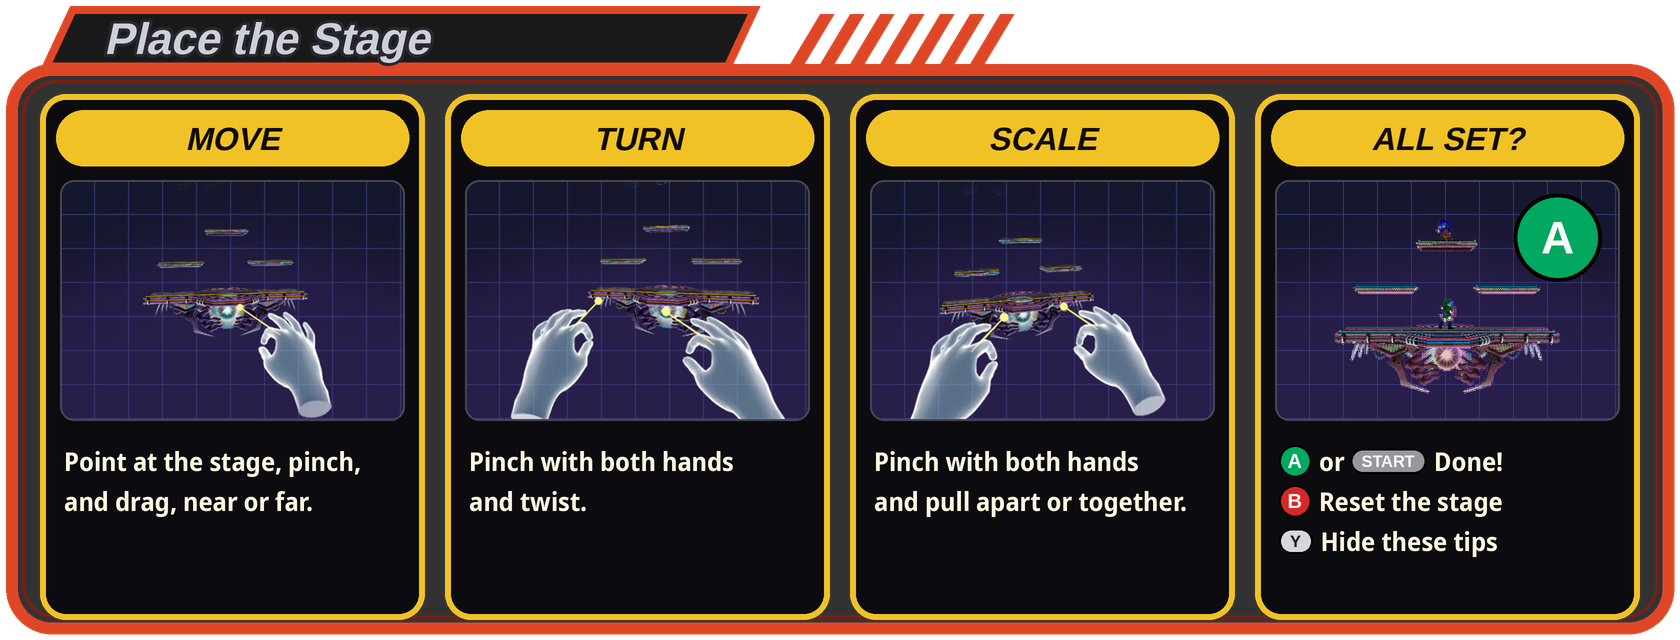
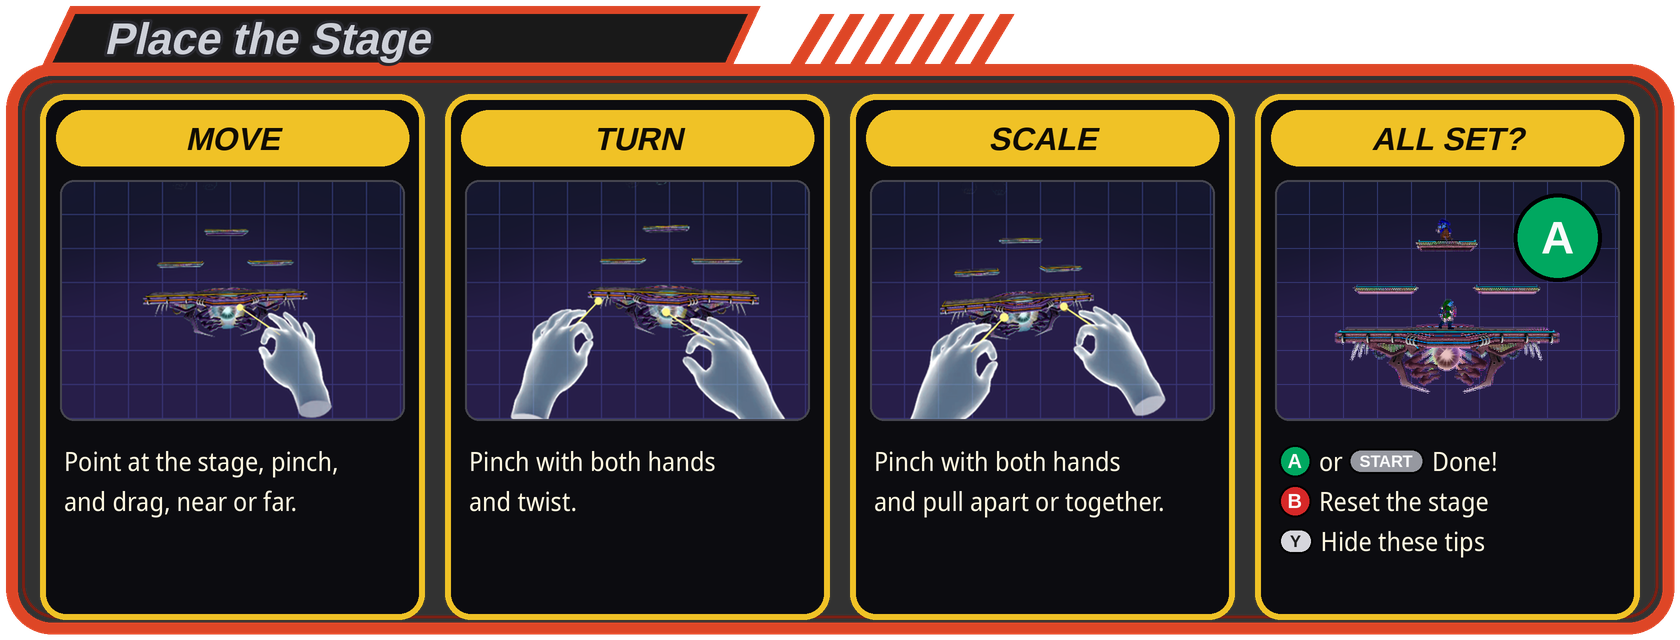
XR placing cards: captions and legend in Noto Sans regular, as the calibration's text

diff --git a/tools/xr_cards/make_cards.py b/tools/xr_cards/make_cards.py
@@ -29,7 +29,7 @@ HERE = os.path.dirname(os.path.abspath(__file__))
 ROOT = os.path.normpath(os.path.join(HERE, "..", ".."))
 OUT = os.path.join(ROOT, "resources", "xr")
 FONT = os.path.join(ROOT, "resources", "font-bold.ttf")  # Melee's slanted headings
-TEXT_FONT = os.path.join(ROOT, "resources", "menu-bold.ttf")  # the menus' Noto Sans, as the Options pages
+TEXT_FONT = os.path.join(ROOT, "resources", "menu.ttf")  # the menus' Noto Sans, as the calibration's text
 
 DONE = False  # the Place Stage menu flow: the cards say "done", not "fight"
 
